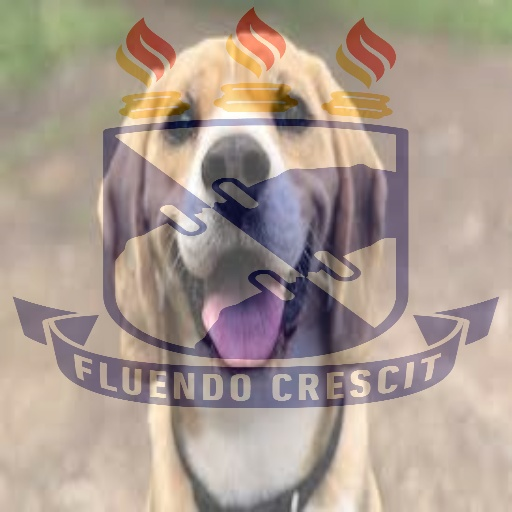
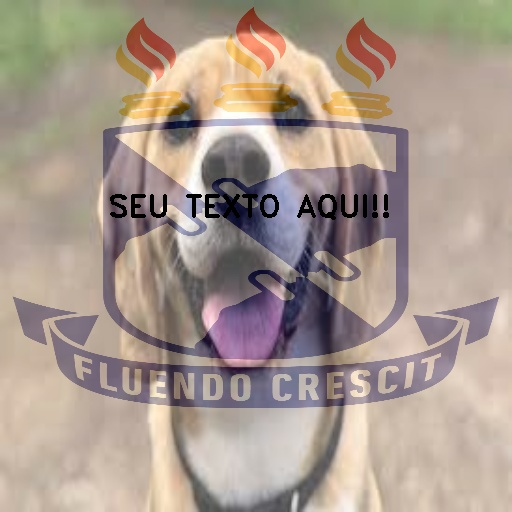
inserindo texto na imagem

Changed region(s): [[0.375, 0.375, 0.7812, 0.4375], [0.2188, 0.375, 0.3438, 0.4375]]

diff --git a/main.py b/main.py
@@ -12,11 +12,14 @@ def resize_img(img, resize=(512,512)):
 def marca_d_agua(img, img_a):
     return cv2.addWeighted(img, 0.7, img_a, 0.3, 0.0)
 
+def escrever_texto(img, text="TEXTO"):
+    return cv2.putText(img, text, (216//2,216), cv2.FONT_HERSHEY_DUPLEX, 1, (0,0,0), 2)
+
 def save_image(img, filename):
     return cv2.imwrite(filename, img)
 
 def run(path_dir, filename_d_agua):
-    # Criar um novo diretprio com as imagens com marca d'água
+    # Criar um novo diretório com as imagens com marca d'água
     path_dir_dagua = f'{path_dir}_dagua'
     try:
         os.mkdir(path_dir_dagua)
@@ -24,7 +27,7 @@ def run(path_dir, filename_d_agua):
         shutil.rmtree(path_dir_dagua)
         os.mkdir(path_dir_dagua)
 
-    # Ler todas as imagens do diretorio
+    # Ler todas as imagens do diretório
     img_list = os.listdir(path_dir)
 
     # Ler imagem que será a marca d'água
@@ -36,6 +39,7 @@ def run(path_dir, filename_d_agua):
         img = read_img(path_img)
         img = resize_img(img, resize=(512,512))
         img_dagua = marca_d_agua(img, img_a)
+        escrever_texto(img_dagua, text="SEU TEXTO AQUI!!")
         save_image(img_dagua, '/'.join([path_dir_dagua, img_name]))
 
 
